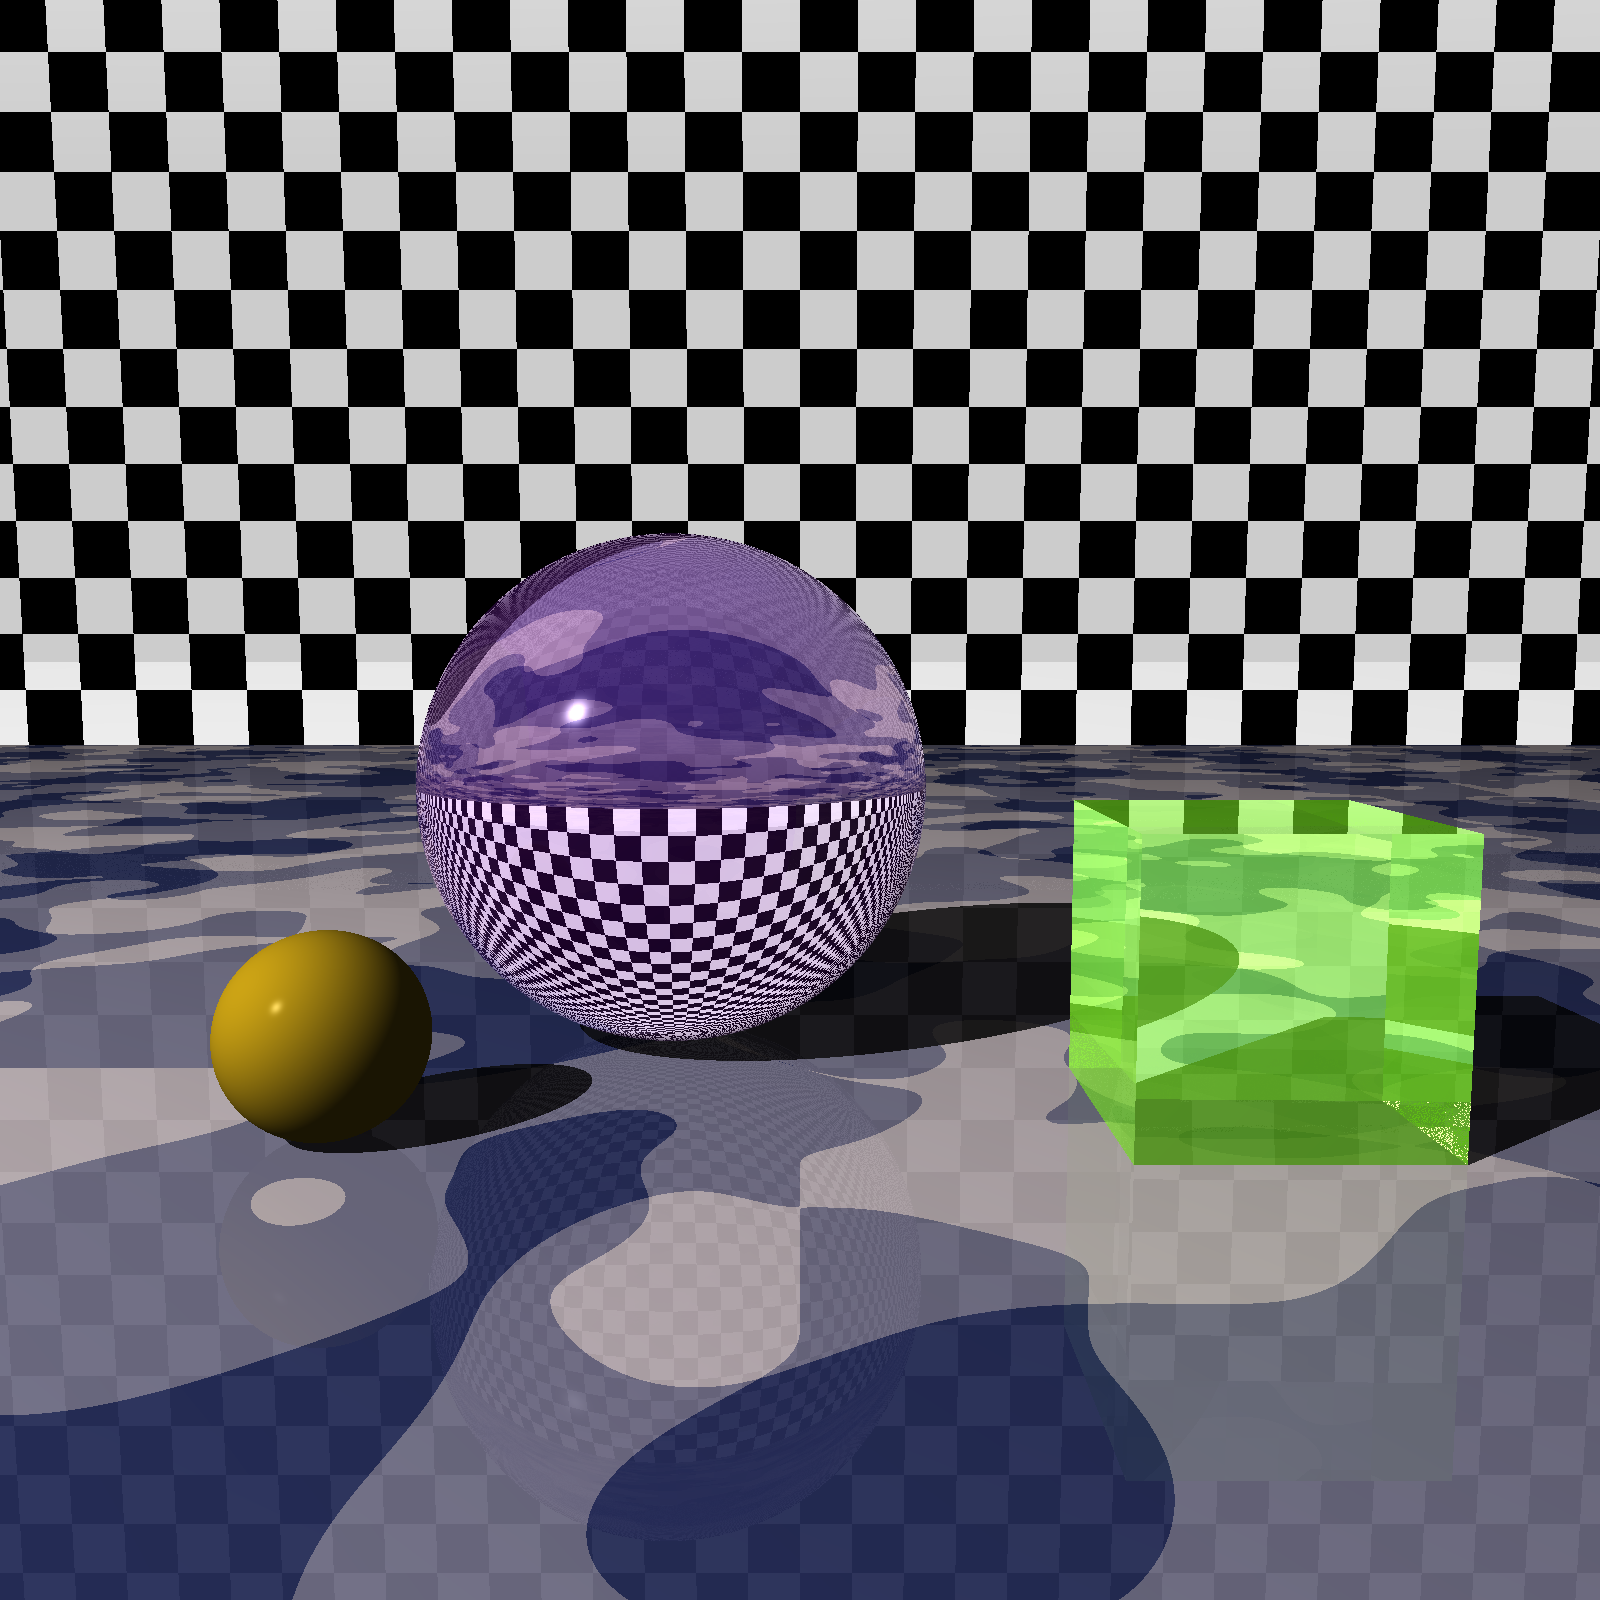
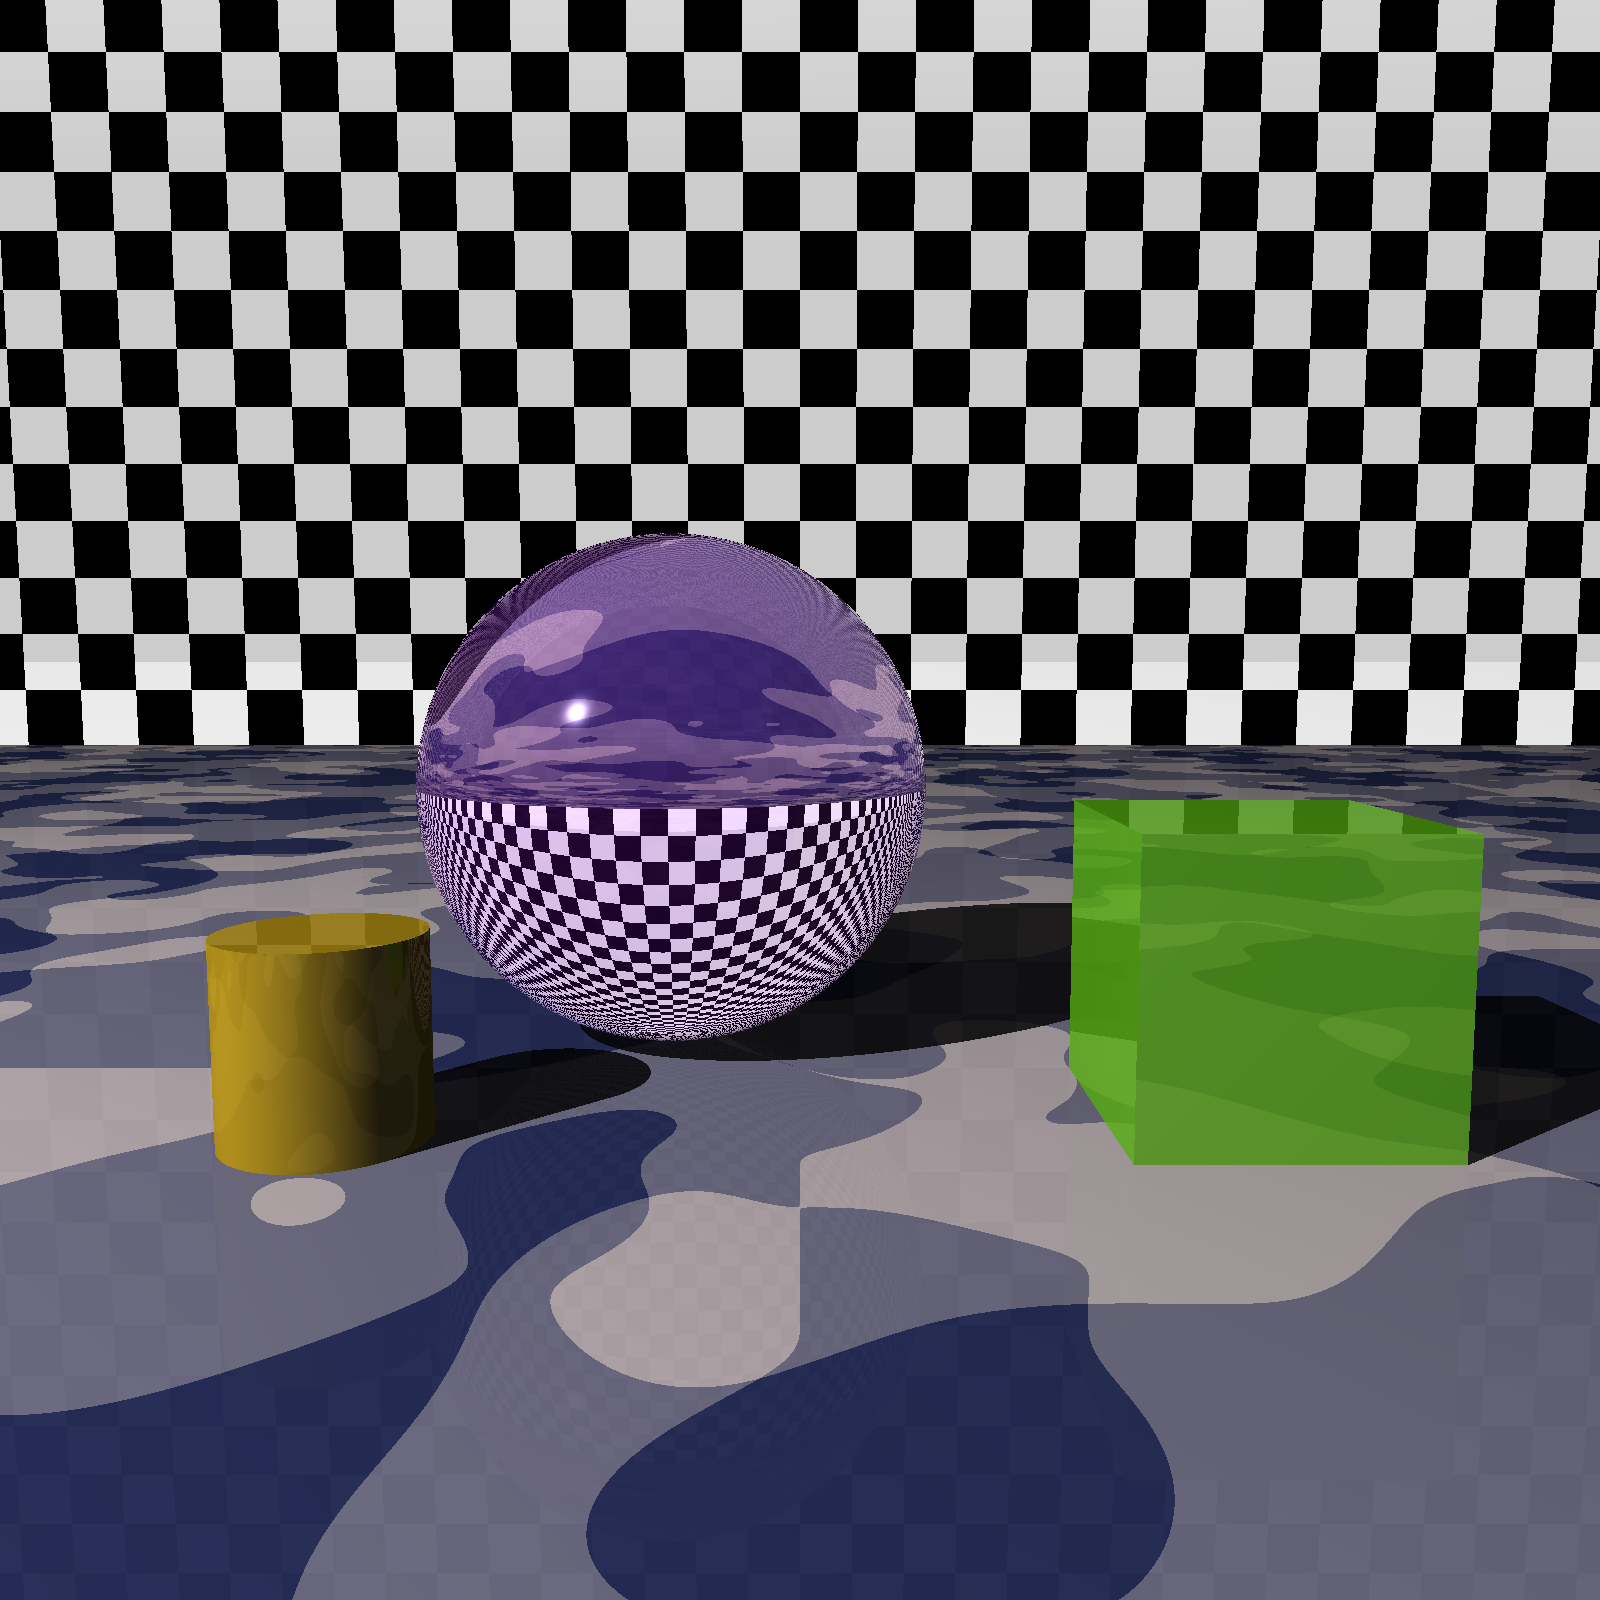
Got Cylinders working

Changed region(s): [[0.6562, 0.5, 0.9375, 0.7188], [0.125, 0.5625, 0.2812, 0.75], [0.2812, 0.6562, 0.4062, 0.6875]]

diff --git a/src/geometry/cylinder.rs b/src/geometry/cylinder.rs
@@ -18,6 +18,7 @@ pub struct Cylinder {
     casts_shadow: bool,
     minimum: f64,
     maximum: f64,
+    closed: bool,
 }
 
 impl Cylinder {
@@ -29,6 +30,7 @@ impl Cylinder {
             casts_shadow: true,
             minimum: f64::NEG_INFINITY,
             maximum: f64::INFINITY,
+            closed: false,
         }
     }
 
@@ -38,6 +40,7 @@ impl Cylinder {
         casts_shadow: bool,
         minimum: f64,
         maximum: f64,
+        closed: bool,
     ) -> Cylinder {
         Cylinder {
             id: Uuid::new_v4(),
@@ -46,6 +49,43 @@ impl Cylinder {
             casts_shadow,
             minimum,
             maximum,
+            closed,
+        }
+    }
+
+    // Checks to see if the intersection at 't', is within a radius of 1 from the y-axis.
+    fn check_cap(ray: &Ray, t: f64) -> bool {
+        let origin = ray.origin();
+        let direction = ray.direction();
+
+        let x = origin.x + t * direction.x;
+        let z = origin.z + t * direction.z;
+
+        ((x * x) + (z * z)) <= 1.0
+    }
+
+    fn intersect_caps(self: Arc<Self>, ray: &Ray, intersections: &mut Vec<Intersection>) {
+        let direction = ray.direction();
+
+        // Caps only matter if the cylinder is closed, and might possibly be intersected by the ray
+        if !self.closed || direction.y.abs() < EPSILON {
+            return;
+        }
+
+        let origin = ray.origin();
+
+        // Check for an intersection with the lower end cap by intersecting the ray with the plane
+        // at y = cyl.minimum
+        let t0 = (self.minimum - origin.y) / direction.y;
+        if Cylinder::check_cap(ray, t0) {
+            intersections.push(Intersection::new(t0, self.clone()));
+        }
+
+        // Check for an intersection with the upper end cap by intersecting the ray with the plane
+        // at y = cyl.maximum
+        let t1 = (self.maximum - origin.y) / direction.y;
+        if Cylinder::check_cap(ray, t1) {
+            intersections.push(Intersection::new(t1, self.clone()));
         }
     }
 }
@@ -59,11 +99,16 @@ impl Shape for Cylinder {
         let origin = local_ray.origin();
         let direction = local_ray.direction();
 
+        let mut intersections: Vec<Intersection> = vec![];
+
         let a = direction.x.powi(2) + direction.z.powi(2);
 
-        // Ray is parallel to the y-axis, so it will not hit the cylinder
+        // Ray is parallel to the y-axis, so it will not hit the cylinder walls. Though it might
+        // possibly intersect the end caps.
         if a < EPSILON {
-            return vec![];
+            Cylinder::intersect_caps(self.clone(), local_ray, &mut intersections);
+
+            return intersections;
         }
 
         let b = (2.0 * origin.x * direction.x) + (2.0 * origin.z * direction.z);
@@ -71,10 +116,8 @@ impl Shape for Cylinder {
 
         let discriminant = (b * b) - (4.0 * a * c);
 
-        // Ray does not intersect the cylinder
-        if discriminant < 0.0 {
-            vec![]
-        } else {
+        // Ray intersects the cylinder walls if the discriminant is >= 0
+        if discriminant >= 0.0 {
             let sqrt_discriminant = discriminant.sqrt();
 
             let mut t0 = (-b - sqrt_discriminant) / (2.0 * a);
@@ -86,8 +129,6 @@ impl Shape for Cylinder {
                 t1 = tmp;
             }
 
-            let mut intersections: Vec<Intersection> = vec![];
-
             // If the y coordinates are between the min and max values of the cylinder, then the
             // intersection is valid
             let y0 = origin.y + t0 * direction.y;
@@ -97,11 +138,13 @@ impl Shape for Cylinder {
 
             let y1 = origin.y + t1 * direction.y;
             if self.minimum < y1 && y1 < self.maximum {
-                intersections.push(Intersection::new(t1, self));
+                intersections.push(Intersection::new(t1, self.clone()));
             }
-
-            intersections
         }
+
+        Cylinder::intersect_caps(self, local_ray, &mut intersections);
+
+        intersections
     }
 
     fn get_transform(&self) -> Arc<Matrix> {
@@ -117,6 +160,17 @@ impl Shape for Cylinder {
     }
 
     fn local_normal_at(&self, local_point: Tuple) -> Tuple {
+        // Compute the square distance from the y-axis
+        let dist = local_point.x * local_point.x + local_point.z * local_point.z;
+
+        if dist < 1.0 && local_point.y >= self.maximum - EPSILON {
+            return Tuple::vector(0.0, 1.0, 0.0);
+        }
+
+        if dist < 1.0 && local_point.y <= self.minimum + EPSILON {
+            return Tuple::vector(0.0, -1.0, 0.0);
+        }
+
         Tuple::vector(local_point.x, 0.0, local_point.z)
     }
 
@@ -187,6 +241,7 @@ mod tests {
             true,
             1.0,
             2.0,
+            false,
         ));
 
         let rays = vec![
@@ -253,6 +308,83 @@ mod tests {
             (Tuple::point(0.0, 5.0, -1.0), Tuple::vector(0.0, 0.0, -1.0)),
             (Tuple::point(0.0, -2.0, 1.0), Tuple::vector(0.0, 0.0, 1.0)),
             (Tuple::point(-1.0, 1.0, 0.0), Tuple::vector(-1.0, 0.0, 0.0)),
+        ];
+
+        // Act
+        for i in 0..expected_normals.len() {
+            let normal = cylinder.local_normal_at(expected_normals[i].0);
+
+            // Assert
+            assert_eq!(expected_normals[i].1, normal);
+        }
+    }
+
+    #[test]
+    fn given_a_ray_when_intersecting_a_constrained_capped_cylinder_should_identify_intersections_correctly(
+    ) {
+        // Arrange
+        let cylinder = Arc::new(Cylinder::new(
+            Arc::new(Matrix::identity(4)),
+            Arc::new(Phong::default()),
+            true,
+            1.0,
+            2.0,
+            true,
+        ));
+
+        let rays = vec![
+            Ray::new(
+                Tuple::point(0.0, 3.0, 0.0),
+                Tuple::vector(0.0, -1.0, 0.0).normalize(),
+            ),
+            Ray::new(
+                Tuple::point(0.0, 3.0, -2.0),
+                Tuple::vector(0.0, -1.0, 2.0).normalize(),
+            ),
+            Ray::new(
+                Tuple::point(0.0, 4.0, -2.0),
+                Tuple::vector(0.0, -1.0, 1.0).normalize(),
+            ),
+            Ray::new(
+                Tuple::point(0.0, 0.0, -2.0),
+                Tuple::vector(0.0, 1.0, 2.0).normalize(),
+            ),
+            Ray::new(
+                Tuple::point(0.0, -1.0, -2.0),
+                Tuple::vector(0.0, 1.0, 1.0).normalize(),
+            ),
+        ];
+
+        let expected_intersect_counts = vec![2, 2, 2, 2, 2];
+
+        // Act
+        for i in 0..rays.len() {
+            let intersects = cylinder.clone().local_intersect(&rays[i]);
+
+            // Assert
+            assert_eq!(expected_intersect_counts[i], intersects.len());
+        }
+    }
+
+    #[test]
+    fn given_a_cylinder_when_computing_normal_on_the_end_caps_should_return_correct_result() {
+        // Arrange
+        let cylinder = Arc::new(Cylinder::new(
+            Arc::new(Matrix::identity(4)),
+            Arc::new(Phong::default()),
+            true,
+            1.0,
+            2.0,
+            true,
+        ));
+
+        let expected_normals = vec![
+            (Tuple::point(0.0, 1.0, 0.0), Tuple::vector(0.0, -1.0, 0.0)),
+            (Tuple::point(0.5, 1.0, 0.0), Tuple::vector(0.0, -1.0, 0.0)),
+            (Tuple::point(0.0, 1.0, 0.5), Tuple::vector(0.0, -1.0, 0.0)),
+            (Tuple::point(0.0, 2.0, 0.0), Tuple::vector(0.0, 1.0, 0.0)),
+            (Tuple::point(0.5, 2.0, 0.0), Tuple::vector(0.0, 1.0, 0.0)),
+            (Tuple::point(0.0, 2.0, 0.5), Tuple::vector(0.0, 1.0, 0.0)),
         ];
 
         // Act

diff --git a/src/lib.rs b/src/lib.rs
@@ -15,6 +15,7 @@ use crate::tuples::pointlight::PointLight;
 use crate::tuples::tuple::Tuple;
 use crate::window::canvas::Canvas;
 
+use crate::geometry::cylinder::Cylinder;
 use std::error::Error;
 use std::f64::consts::PI;
 use std::sync::{mpsc, Arc};
@@ -163,7 +164,7 @@ pub fn build_world() -> World {
         0.9,
         0.0,
         200.0,
-        0.05,
+        0.02,
         0.0,
         1.0,
     ));
@@ -208,16 +209,16 @@ pub fn build_world() -> World {
             0.7,
             0.3,
             200.0,
-            0.9,
+            0.2,
+            0.0,
             1.0,
-            1.52,
         )),
         true,
     );
 
-    let left = Sphere::new(
+    let left = Cylinder::new(
         Arc::new(
-            (&Matrix::translation(-1.5, 0.33, -0.75) * &Matrix::scaling(0.33, 0.33, 0.33)).unwrap(),
+            (&Matrix::translation(-1.5, 0.0, -0.75) * &Matrix::scaling(0.33, 0.33, 0.33)).unwrap(),
         ),
         Arc::new(Phong::new(
             Box::new(Solid::new(Color::new(1.0, 0.8, 0.1))),
@@ -225,10 +226,13 @@ pub fn build_world() -> World {
             0.7,
             0.3,
             200.0,
-            0.0,
+            0.1,
             0.0,
             1.0,
         )),
+        true,
+        0.0,
+        2.0,
         true,
     );
 

diff --git a/src/geometry.rs b/src/geometry.rs
@@ -1,5 +1,5 @@
 pub mod cube;
-mod cylinder;
+pub mod cylinder;
 pub mod plane;
 pub mod shape;
 pub mod sphere;
